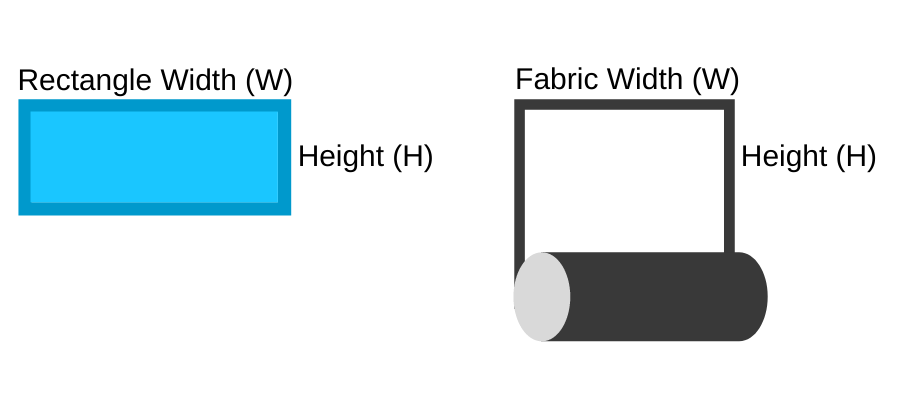
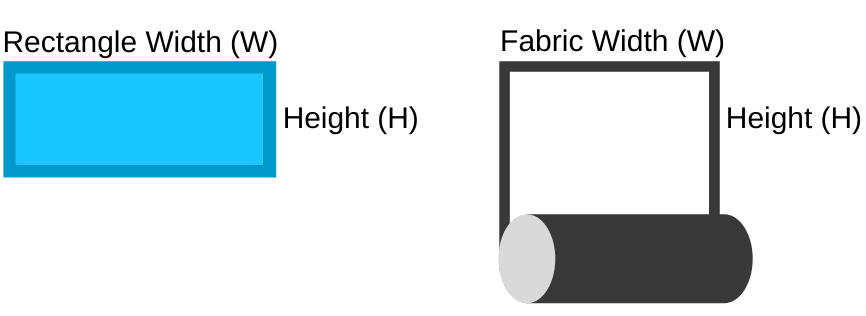
Fix layout for mobile

Changed region(s): [[0.5612, 0.0854, 0.9977, 0.9684], [0.0, 0.0854, 0.4988, 0.5696]]

diff --git a/css/stylesheet.css b/css/stylesheet.css
@@ -24,28 +24,7 @@ hr {
     margin-bottom: 50px;
 }
 input[type=number] {
-    width: 15%;
-    font-size: 15px;
-    padding: 8px 10px;
-    margin: 2px 2px;
-    background-color: #fff;
-    box-sizing: border-box;
-    border: 1px solid #0099cc;
-    border-radius: 5px;
-
-}
-#fabric_width {
-    width: 25%;
-    font-size: 15px;
-    padding: 8px 10px;
-    margin: 2px 2px;
-    background-color: #fff;
-    box-sizing: border-box;
-    border: 1px solid #0099cc;
-    border-radius: 5px;
-}
-#fabric_height {
-    width: 25%;
+    width: 20%;
     font-size: 15px;
     padding: 8px 10px;
     margin: 2px 2px;
@@ -63,6 +42,15 @@ input[type=number]:focus {
     margin-right: auto;
     max-width: 85%;
     max-height: 85%;
+}
+.img_input {
+    display: block;
+    margin-left: auto;
+    margin-right: auto;
+    max-width: 85%;
+    max-height: 85%;
+    margin-top: 50px;
+    margin-bottom: 30px;
 }
 .error_msg{
     color: #ff0000;
@@ -113,6 +101,26 @@ input[type=number]:focus {
     width: 80%;
     padding: 25px 7px;
     font-size: 15px;
+}
+#fabric_width {
+    width: 30%;
+    font-size: 15px;
+    padding: 8px 10px;
+    margin: 2px 2px;
+    background-color: #fff;
+    box-sizing: border-box;
+    border: 1px solid #0099cc;
+    border-radius: 5px;
+}
+#fabric_height {
+    width: 30%;
+    font-size: 15px;
+    padding: 8px 10px;
+    margin: 2px 2px;
+    background-color: #fff;
+    box-sizing: border-box;
+    border: 1px solid #0099cc;
+    border-radius: 5px;
 }
 #feedback { 
     font-size: 15px;

diff --git a/index.html b/index.html
@@ -250,7 +250,7 @@
         <p>Note that rectangles will <b>not</b> be rotated to preserve how you'd like the pieces to be patterned along the fabric grain.</p> 
 
         <p>
-            <img class="img" src="./imgs/width_orientation.png" alt="Fabric Width Orientation">
+            <img class="img_input" src="./imgs/width_orientation.png" alt="Fabric Width Orientation">
         </p>
 
         <div>

diff --git a/index.md b/index.md
@@ -250,7 +250,7 @@
         <p>Note that rectangles will <b>not</b> be rotated to preserve how you'd like the pieces to be patterned along the fabric grain.</p> 
 
         <p>
-            <img class="img" src="./imgs/width_orientation.png" alt="Fabric Width Orientation">
+            <img class="img_input" src="./imgs/width_orientation.png" alt="Fabric Width Orientation">
         </p>
 
         <div>
